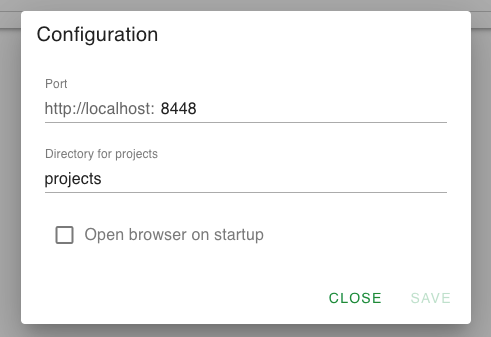
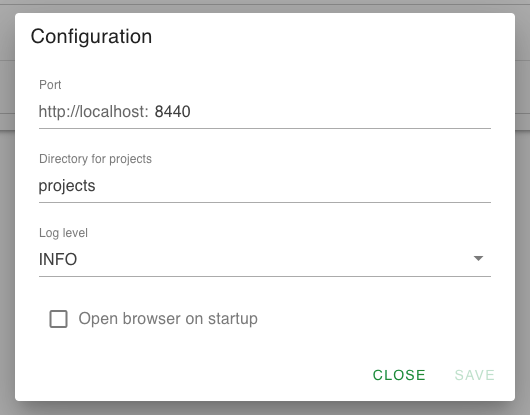
thesisTool: add log level config to documentation

Changed region(s): [[0.0, 0.0297, 1.0, 0.9792], [0.6721, 0.8605, 0.8248, 0.9199], [0.8859, 0.5935, 0.9165, 0.6231]]

diff --git a/services/thesisTool/documentation/documentation_de.md b/services/thesisTool/documentation/documentation_de.md
@@ -170,4 +170,6 @@ Nach dem Speichern musst du die Anwendung einmal neu starten und dann läuft sie
 
 Zum anderen kannst du das ***Verzeichnis für Projekte*** angeben. In diesem werden die Projekte gespeichert. Der Pfad ist relativ zum Speicherort des Programmes.
 
+Das ***Log-Level*** bezieht sich auf die Filterung der Log-Meldumgen im Terminal-Fenster. Zur Auswahl stehen *ERROR*, *WARNING*, *INFO* und *DEBUG*, wobei höhere Level wie *INFO* niedrigere Level wie *ERROR* einschließen. Der Stadnard-Wert ist *INFO*.
+
 Außerdem kannst du aktivieren, dass sich der Browser mit der richtigen Adresse automatisch öffnet, sobald du die Anwendung startest.

diff --git a/services/thesisTool/documentation/documentation_en.md b/services/thesisTool/documentation/documentation_en.md
@@ -170,4 +170,6 @@ After saving, you have to restart the application once and then it will run on t
 
 Secondly, you can specify the ***Directory for projects***. The projects are saved in this directory. The path is relative to the storage location of the application.
 
+The ***Log level*** refers to the filtering of the log messages in the terminal window. The choices are *ERROR*, *WARNING*, *INFO* and *DEBUG*, with higher levels like *INFO* including lower levels like *ERROR*. The stadnard value is *INFO*.
+
 You can also activate the browser to open automatically with the correct address as soon as you start the application.
